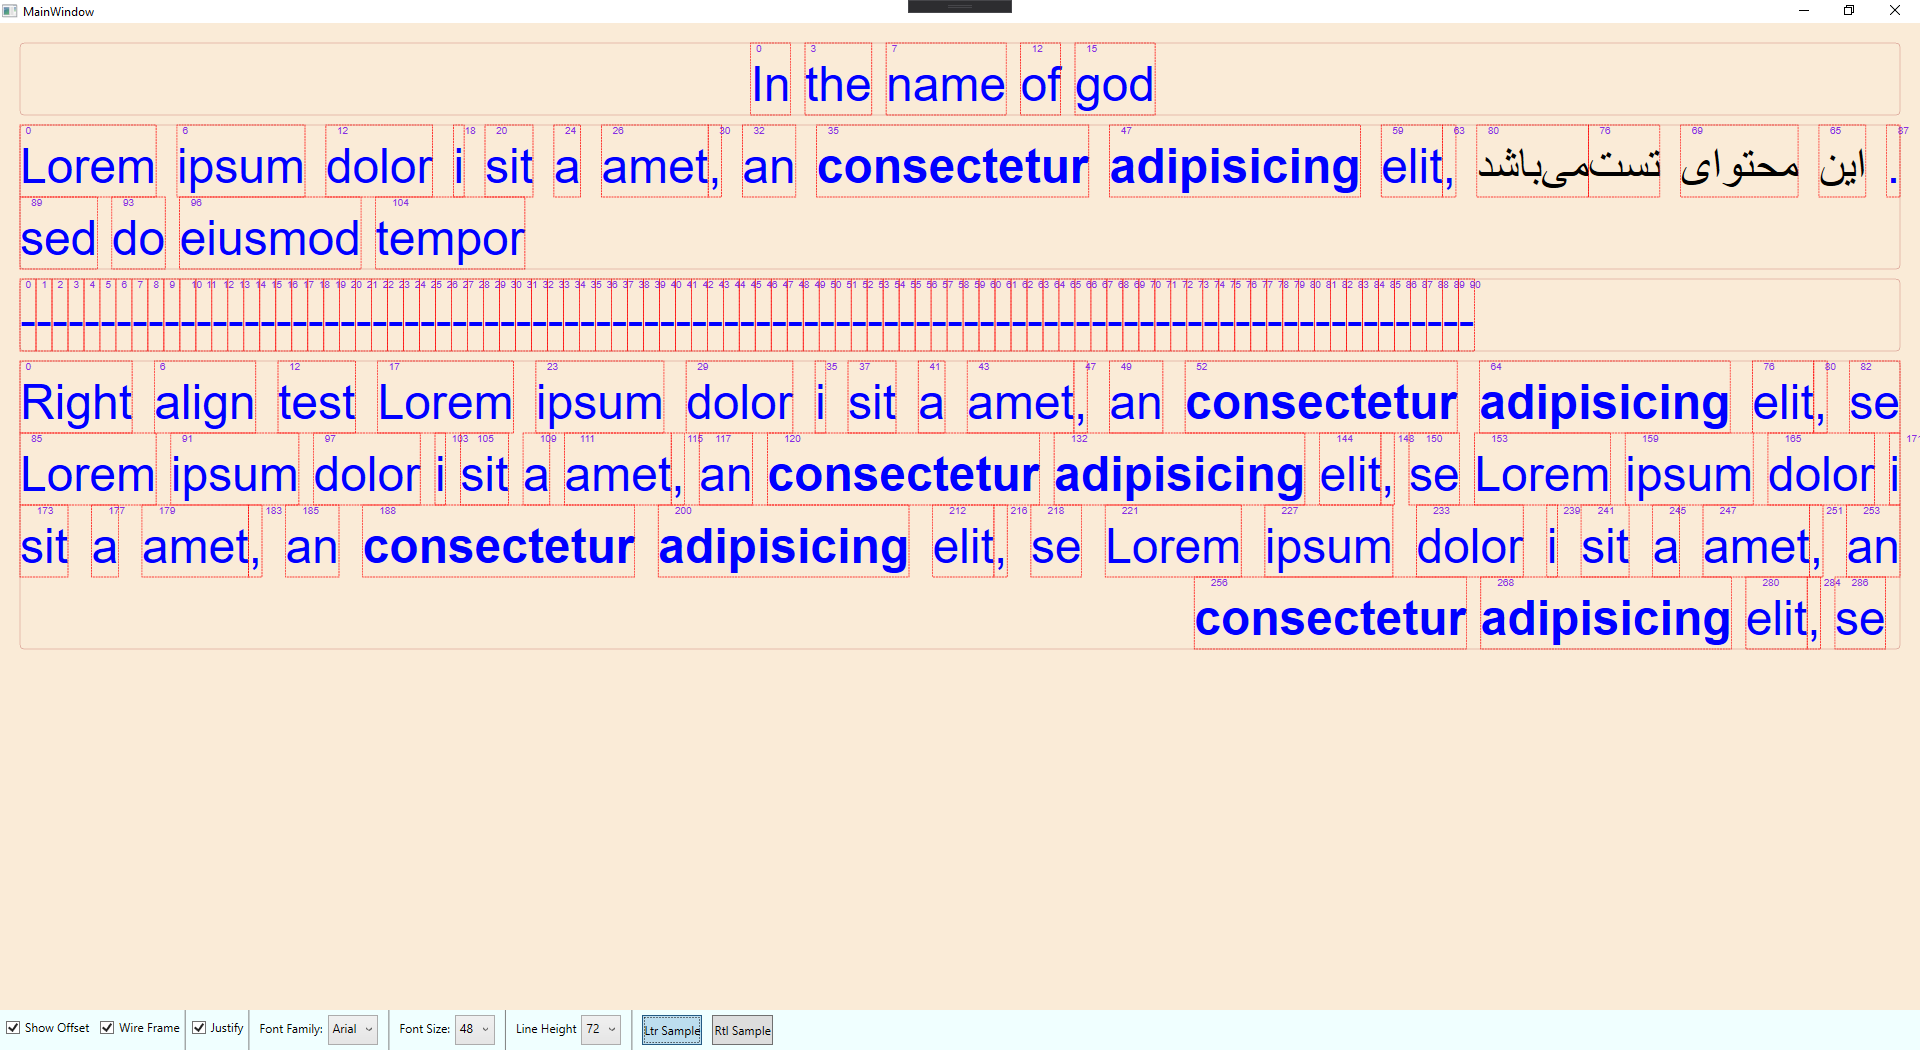
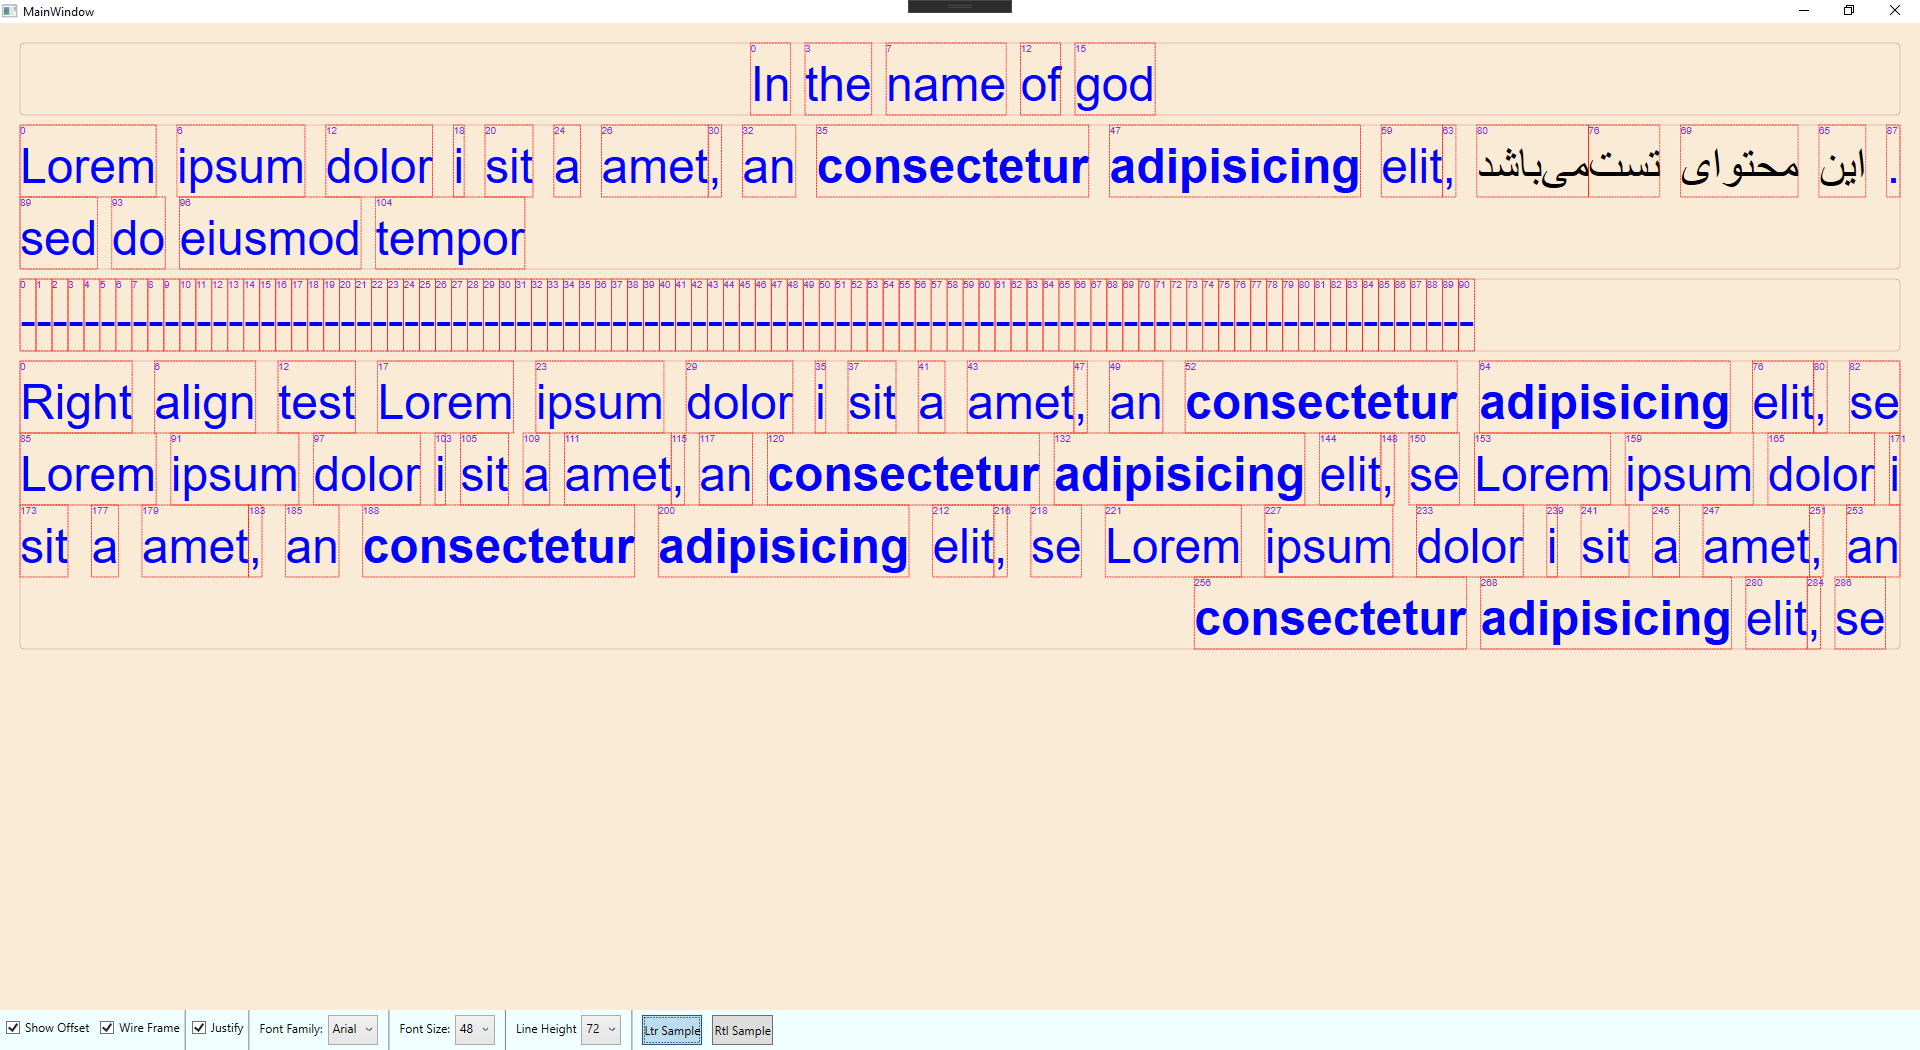
fix showOffset location in ltr content

diff --git a/src/TextViewer/TextViewer/TextViewer.cs b/src/TextViewer/TextViewer/TextViewer.cs
@@ -139,7 +139,7 @@ namespace TextViewer
                         new Typeface(FontFamily, FontStyles.Normal, FontWeights.Normal, FontStretches.Normal),
                         10, Brushes.BlueViolet, PixelsPerDip);
 
-                    dc.DrawText(ft, new Point(word.Paragraph.IsRtl ? word.Area.X + word.Width - ft.Width : word.Area.X + ft.Width, word.Area.Y));
+                    dc.DrawText(ft, new Point(word.Paragraph.IsRtl ? word.Area.X + word.Width - ft.Width : word.Area.X, word.Area.Y));
                 }
             }
 

diff --git a/README.md b/README.md
@@ -1,2 +1,8 @@
 # TextViewer
 WPF canvas as text viewer like FlowDocument by more features like lines and word selection.
+
+### RTL content sample
+![rtl sample](https://github.com/bezzad/TextViewer/raw/master/sample1.png)
+
+### LTR content sample
+![ltr sample](https://github.com/bezzad/TextViewer/raw/master/sample2.png)
